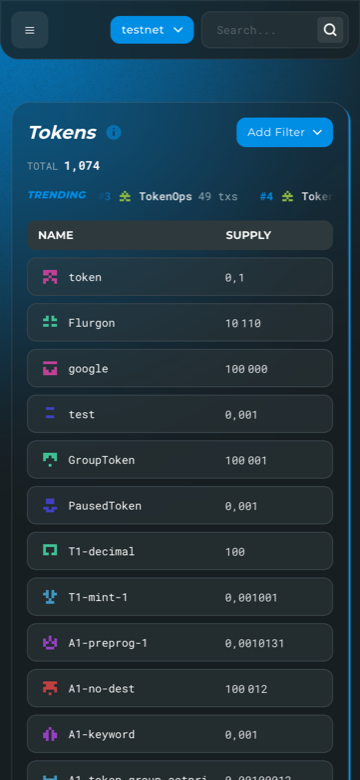
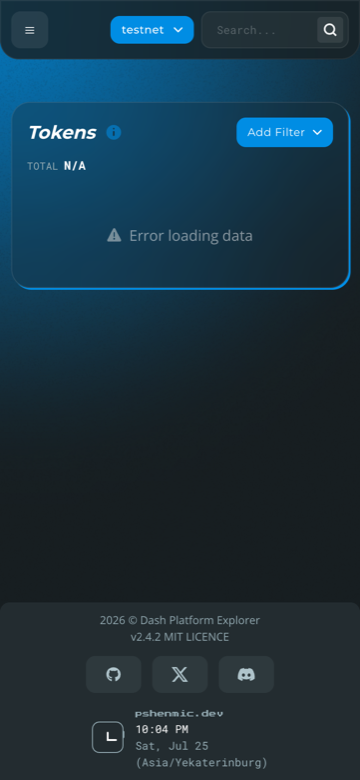
fix(tokens): show Name · Supply · Price on phone
Keep three catalog metrics on mobile; drop Contract/Owner only.
Empty price renders NotActive. Refresh mobile after screenshot.

diff --git a/packages/frontend/src/components/tokens/_variables.scss b/packages/frontend/src/components/tokens/_variables.scss
@@ -1,7 +1,8 @@
 @import '../../styles/variables.scss';
 
-// Column tracks for /tokens list — keep Name + Supply on phones.
-// Drop Contract → Price → Owner first; never drop Name.
+// Column tracks for /tokens list — catalog mental model on phone:
+// Name · Supply · Price (Contract / Owner → detail / filters).
+// Drop Contract → Owner first; never drop Name. Price only on the narrowest strip.
 @mixin Columns() {
   display: grid;
   gap: 12px;
@@ -24,7 +25,7 @@
       minmax(0, 1fr);
   }
 
-  // drop Contract
+  // drop Contract — Name · Supply · Price · Owner
   @container (max-width: 64rem) {
     grid-template-columns:
       minmax(10rem, 1.5fr)
@@ -33,27 +34,21 @@
       minmax(0, 1fr);
   }
 
-  // drop Price — Name · Supply · Owner
+  // drop Owner — Name · Supply · Price (tablet / phone)
   @container (max-width: 48rem) {
     grid-template-columns:
       minmax(0, 1.4fr)
       7rem
-      minmax(0, 1fr);
-  }
-
-  // phone: Name · Supply (drop Owner; matches directory mental model)
-  @container (max-width: 40rem) {
-    grid-template-columns:
-      minmax(0, 1fr)
-      minmax(5.5rem, 8rem);
+      minmax(5.5rem, 7rem);
     gap: 10px;
   }
 
-  // very narrow: still Name · Supply
-  @container (max-width: 23rem) {
+  // phone (~390 / ~320 content): keep Name · Supply · Price
+  @container (max-width: 40rem) {
     grid-template-columns:
       minmax(0, 1fr)
-      minmax(4.5rem, 6.5rem);
+      minmax(4.75rem, 6.25rem)
+      minmax(4rem, 5.75rem);
     gap: 8px;
   }
 }
@@ -109,7 +104,7 @@
       6rem;
   }
 
-  // phone: Name · Balance (supply optional secondary — keep supply + balance if fits)
+  // phone balance: Name · Balance
   @container (max-width: 40rem) {
     grid-template-columns:
       minmax(0, 1fr)
@@ -135,12 +130,6 @@
   }
 
   @container (max-width: 48rem) {
-    &--Price {
-      display: none;
-    }
-  }
-
-  @container (max-width: 40rem) {
     &--OwnerIdentity {
       display: none;
     }

diff --git a/packages/frontend/src/components/tokens/TokensListItem.scss b/packages/frontend/src/components/tokens/TokensListItem.scss
@@ -28,6 +28,8 @@
     }
 
     &--Supply {
+      justify-content: flex-end;
+
       .Supply {
         width: 100%;
       }
@@ -49,6 +51,24 @@
     &--Balance, &--Price {
       font-size: 0.625rem;
       font-weight: 400;
+      justify-content: flex-end;
+    }
+  }
+
+  // phone: denser metric columns next to name
+  @container (max-width: 40rem) {
+    &__Column {
+      &--Supply {
+        font-size: 0.6875rem;
+
+        &BigNumber {
+          font-size: 0.6875rem;
+        }
+      }
+
+      &--Price {
+        font-size: 0.6875rem;
+      }
     }
   }
 

diff --git a/packages/frontend/src/components/tokens/TokensListItem.js b/packages/frontend/src/components/tokens/TokensListItem.js
@@ -73,7 +73,7 @@ function TokensListItem ({ token, variant = 'default', rate }) {
                   From <FormattedNumber decimals={decimals}>{getMinTokenPrice(token.prices)}</FormattedNumber>
                 </Flex>
               </Tooltip>
-              : <></>
+              : <NotActive/>
           }
         </GridItem>
 
